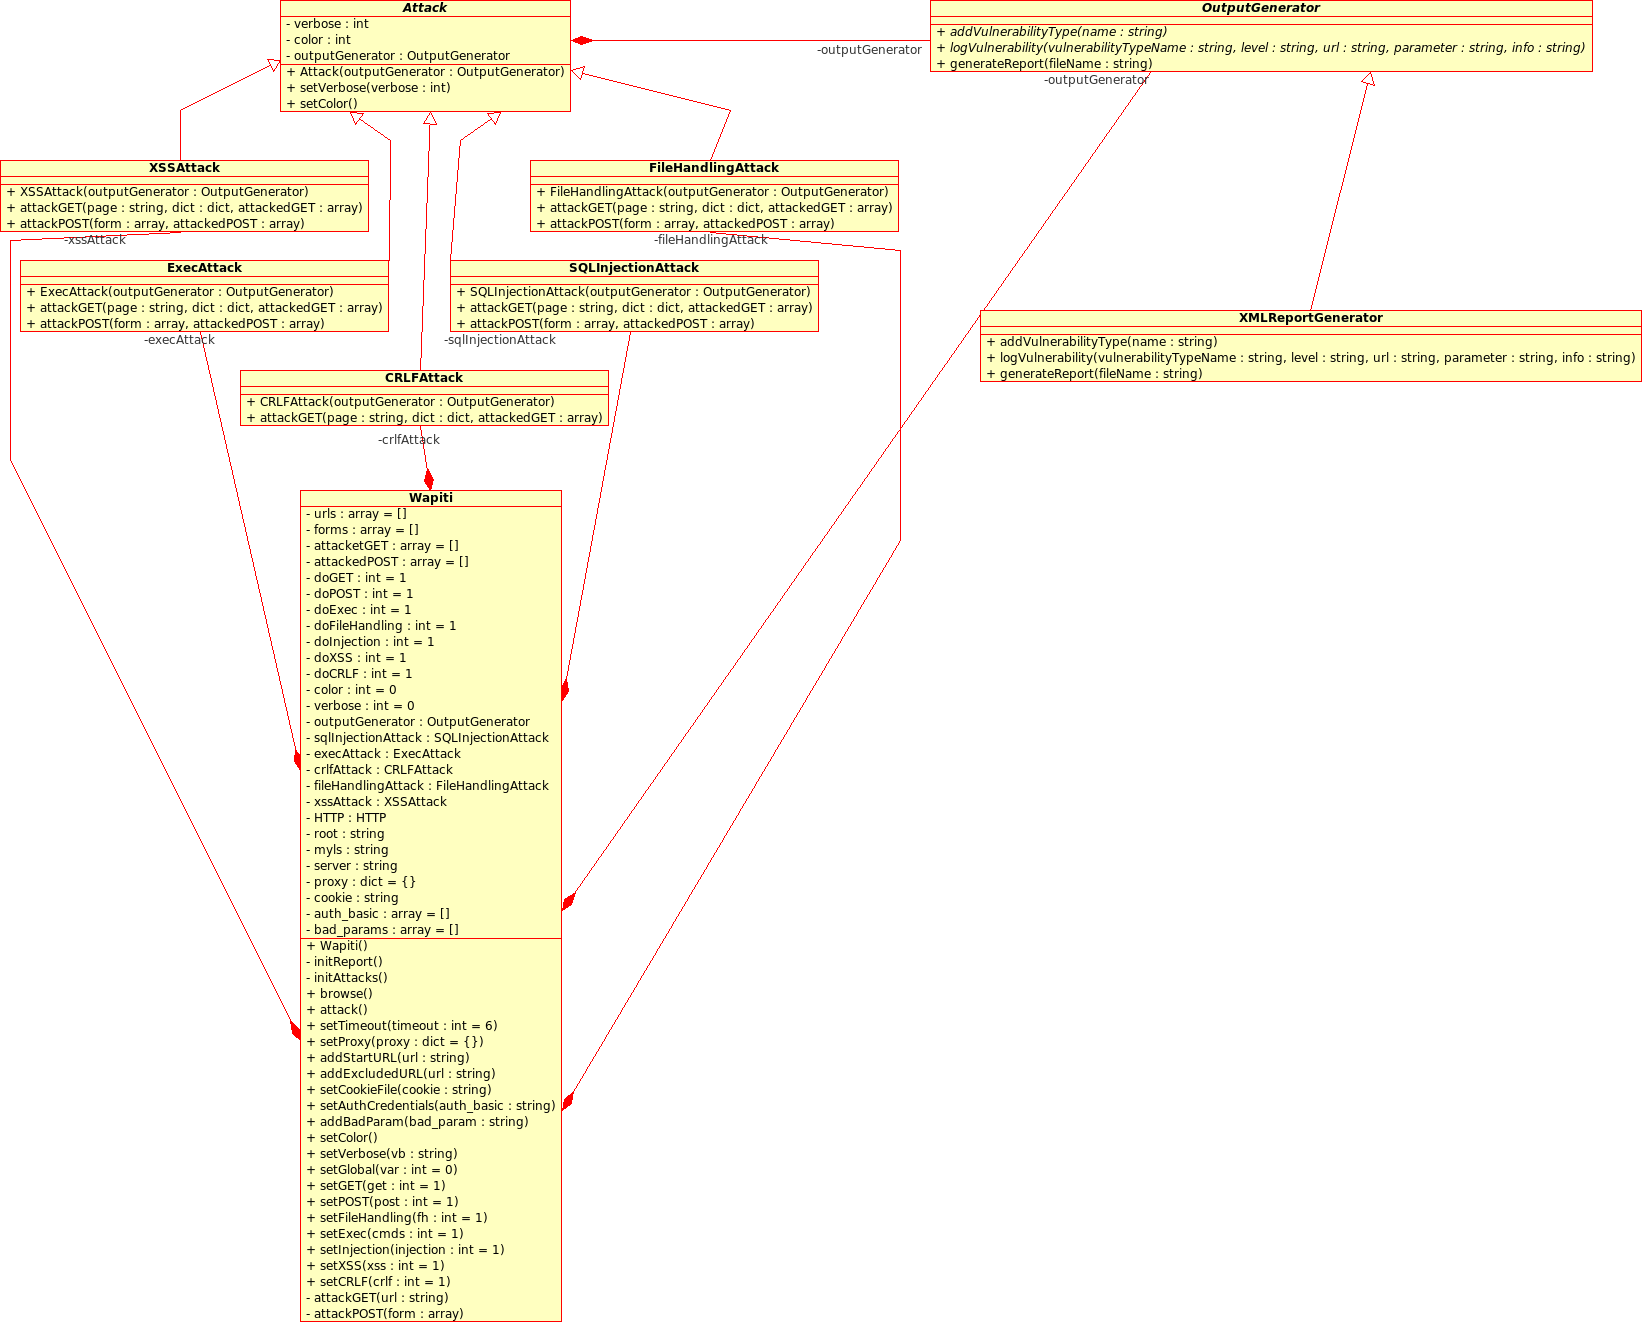
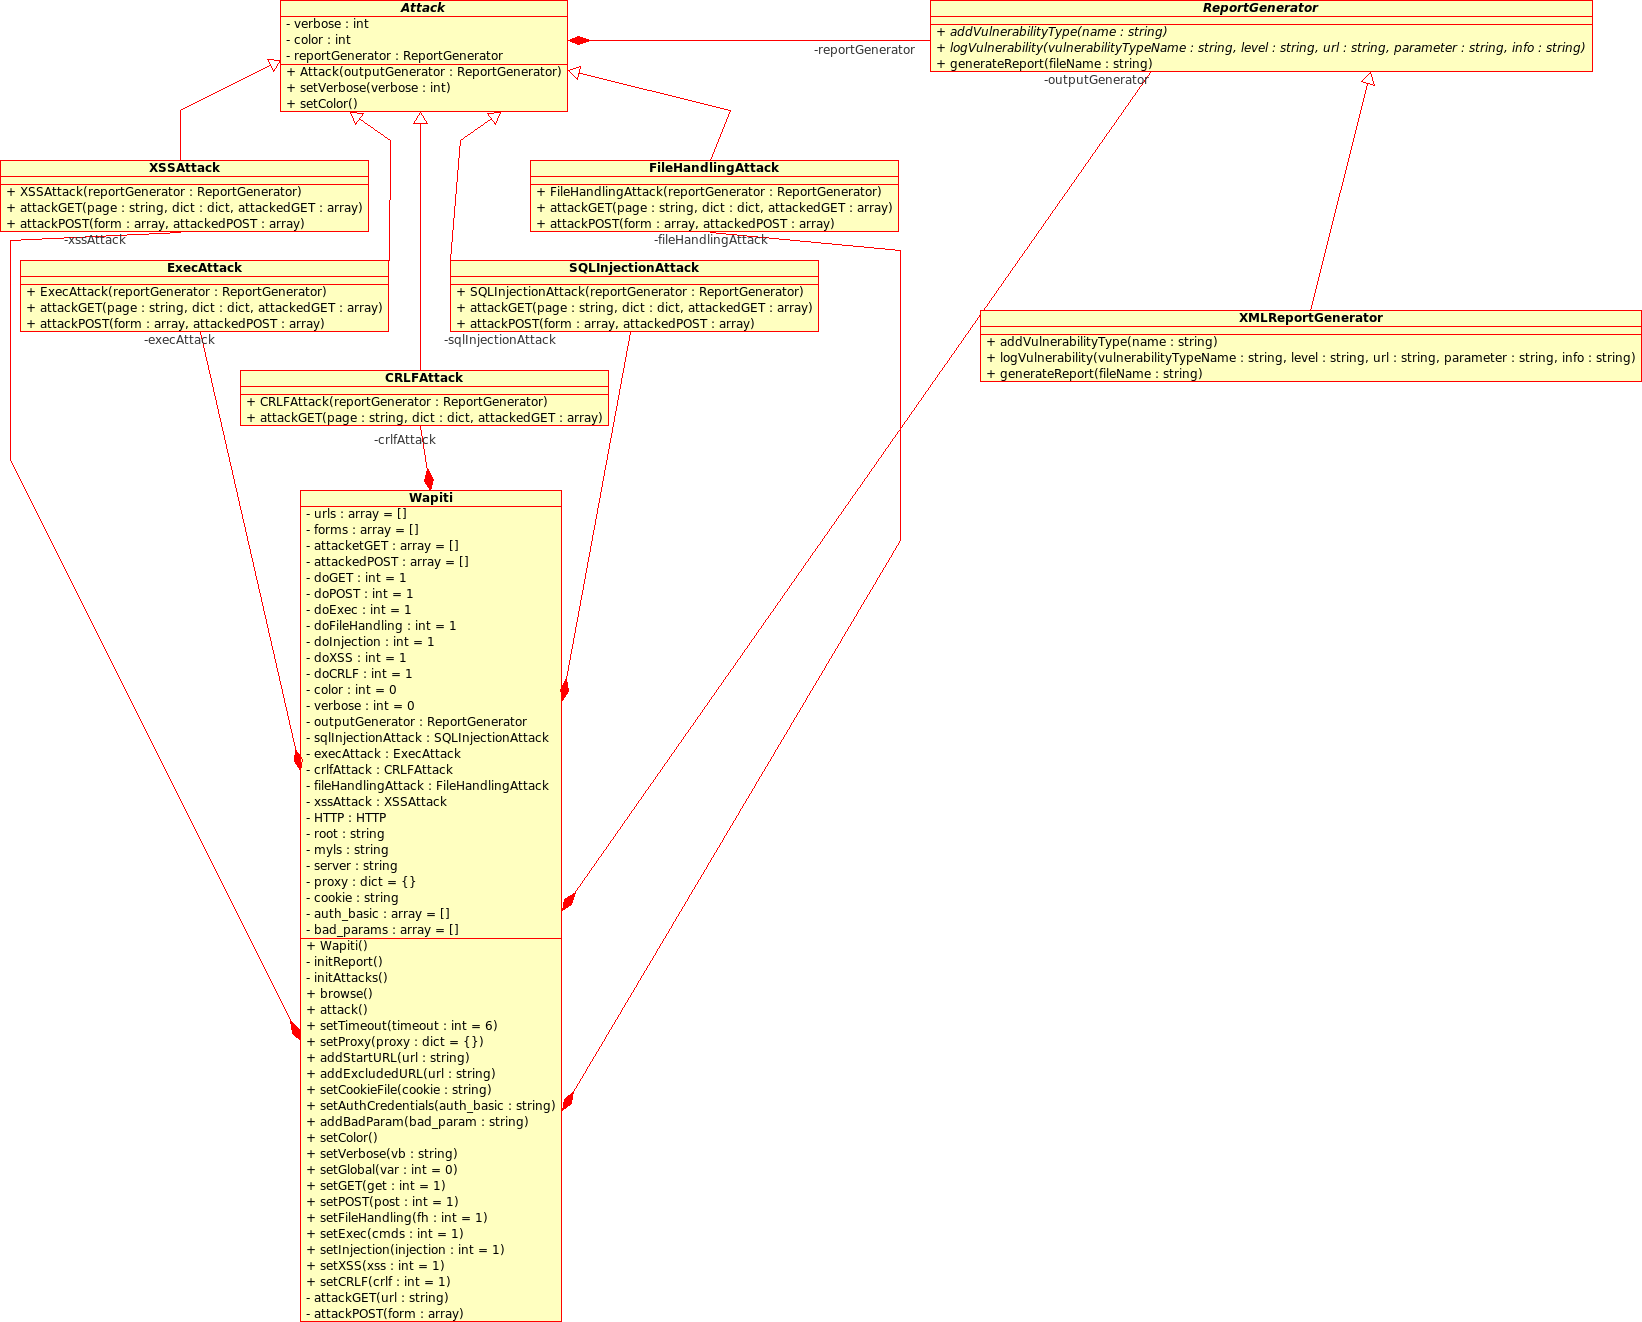
[Wapiti] XMLReportGenerator extends from ReportGenerator (abstract class) and in the main class (Wapiti) the report generator can be choosen dinamically. Now only xml format is supported. Application also gets the output file where the report will be generated but this function has not been implemen

diff --git a/wapiti.py b/wapiti.py
@@ -85,6 +85,11 @@ Supported options are:
 	Set the verbosity level
 	0: quiet (default), 1: print each url, 2: print every attack
 
+-rt <type>
+--reportType <type>
+	Set the type of the report
+	xml: Report in XML format
+
 -h
 --help
 	To print this usage message"""
@@ -102,6 +107,7 @@ Supported options are:
   color=0
   bad_params=[]
   verbose=0
+  reportGeneratorType = "xml"
 
   doGET=1
   doPOST=1
@@ -115,7 +121,7 @@ Supported options are:
   GET_XSS={}
   HTTP=None
   XSS=None
-  xmlReportGen = None
+  reporGen = None
 
   #Constants
   SQL_INJECTION = "Sql Injection"
@@ -139,12 +145,15 @@ Supported options are:
     self.__initReport()
 
   def __initReport(self):
-    self.xmlReportGen = XMLReportGenerator()
-    self.xmlReportGen.addVulnerabilityType(self.SQL_INJECTION)
-    self.xmlReportGen.addVulnerabilityType(self.FILE_HANDLING)
-    self.xmlReportGen.addVulnerabilityType(self.XSS)
-    self.xmlReportGen.addVulnerabilityType(self.CRLF)
-    self.xmlReportGen.addVulnerabilityType(self.EXEC)
+    if self.reportGeneratorType.lower() == "xml":
+        self.reporGen = XMLReportGenerator()
+    else: #default
+        self.reporGen = XMLReportGenerator()
+    self.reporGen.addVulnerabilityType(self.SQL_INJECTION)
+    self.reporGen.addVulnerabilityType(self.FILE_HANDLING)
+    self.reporGen.addVulnerabilityType(self.XSS)
+    self.reporGen.addVulnerabilityType(self.CRLF)
+    self.reporGen.addVulnerabilityType(self.EXEC)
 
   def browse(self):
     self.myls.go()
@@ -180,7 +189,7 @@ Supported options are:
       print "----------------------"
       for url in self.myls.getUploads():
         print url
-    self.xmlReportGen.printToFile(self.REPORT_DIR+"/vulnerabilities.xml")
+    self.reporGen.generateReport(self.REPORT_DIR+"/vulnerabilities.xml")
     print "\nReport"
     print "------"
     print "A report has been generated in the file vulnerabilities.xml"
@@ -250,6 +259,12 @@ Supported options are:
   def setCRLF(self,crlf=1):
     self.doCRLF=crlf
 
+  def setReportGeneratorType(self,repGentype="xml"):
+    self.reportGeneratorType = repGentype
+
+  def setOuputFile(self,outputFile):
+    self.outputFile = outputFile
+
   def attackGET(self,url):
     page=url.split('?')[0]
     query=url.split('?')[1]
@@ -309,14 +324,14 @@ Supported options are:
         if data.find("Sybase message:")>=0:
           err="Sybase Injection"
         if err!="":
-          self.xmlReportGen.logVulnerability(self.SQL_INJECTION,
+          self.reporGen.logVulnerability(self.SQL_INJECTION,
                             self.HIGH_LEVEL_VULNERABILITY,
                             url,payload,err+" (QUERY_STRING)")
           print err,"(QUERY_STRING) in",page
           print "\tEvil url:",url
         else:
           if code==500:
-            self.xmlReportGen.logVulnerability(self.SQL_INJECTION,
+            self.reporGen.logVulnerability(self.SQL_INJECTION,
                               self.HIGH_LEVEL_VULNERABILITY,
                               url,payload,"500 HTTP Error code")
             print "500 HTTP Error code with"
@@ -356,21 +371,21 @@ Supported options are:
             err="Sybase Injection"
           if err!="":
             if self.color==0:
-              self.xmlReportGen.logVulnerability(self.SQL_INJECTION,
+              self.reporGen.logVulnerability(self.SQL_INJECTION,
                                 self.HIGH_LEVEL_VULNERABILITY,
                                 url,self.HTTP.encode(tmp),
                                 err+" ("+k+")")
               print err,"("+k+") in",page
               print "\tEvil url:",url
             else:
-              self.xmlReportGen.logVulnerability(self.SQL_INJECTION,
+              self.reporGen.logVulnerability(self.SQL_INJECTION,
                                 self.HIGH_LEVEL_VULNERABILITY,
                                 url,self.HTTP.encode(tmp),
                                 err+" : "+url.replace(k+"=","\033[0;31m"+k+"\033[0;0m="))
               print err,":",url.replace(k+"=","\033[0;31m"+k+"\033[0;0m=")
           else:
             if code==500:
-              self.xmlReportGen.logVulnerability(self.SQL_INJECTION,
+              self.reporGen.logVulnerability(self.SQL_INJECTION,
                                 self.HIGH_LEVEL_VULNERABILITY,
                                 url,self.HTTP.encode(tmp),
                                 "500 HTTP Error code")
@@ -429,7 +444,7 @@ Supported options are:
             err="Warning file_get_contents()"
             warn=1
           if err!="":
-            self.xmlReportGen.logVulnerability(self.FILE_HANDLING,
+            self.reporGen.logVulnerability(self.FILE_HANDLING,
                               self.HIGH_LEVEL_VULNERABILITY,
                               url,self.HTTP.quote(payload),
                               str(err)+" (QUERY_STRING) in "+str(page))
@@ -438,7 +453,7 @@ Supported options are:
           else:
             if code==500 and err500==0:
               err500=1
-              self.xmlReportGen.logVulnerability(self.FILE_HANDLING,
+              self.reporGen.logVulnerability(self.FILE_HANDLING,
                                 self.HIGH_LEVEL_VULNERABILITY,
                                 url,self.HTTP.quote(payload),
                                 "500 HTTP Error code")
@@ -491,20 +506,20 @@ Supported options are:
             warn=1
           if err!="":
             if self.color==0:
-              self.xmlReportGen.logVulnerability(self.FILE_HANDLING,
+              self.reporGen.logVulnerability(self.FILE_HANDLING,
                                 self.HIGH_LEVEL_VULNERABILITY,
                                 url,self.HTTP.encode(tmp),err+" ("+k+")")
               print err,"("+k+") in",page
               print "\tEvil url:",url
             else:
-              self.xmlReportGen.logVulnerability(self.FILE_HANDLING,
+              self.reporGen.logVulnerability(self.FILE_HANDLING,
                                 self.HIGH_LEVEL_VULNERABILITY,url,self.HTTP.encode(tmp),
                                 err+" : "+url.replace(k+"=","\033[0;31m"+k+"\033[0;0m="))
               print err,":",url.replace(k+"=","\033[0;31m"+k+"\033[0;0m=")
           else:
             if code==500 and err500==0:
               err500=1
-              self.xmlReportGen.logVulnerability(self.FILE_HANDLING,
+              self.reporGen.logVulnerability(self.FILE_HANDLING,
                                 self.HIGH_LEVEL_VULNERABILITY,url,self.HTTP.encode(tmp),
                                 "500 HTTP Error code")
               print "500 HTTP Error code with"
@@ -555,14 +570,14 @@ Supported options are:
           print "+ "+url
         data,code=self.HTTP.send(url).getPageCode()
         if data.find(payload)>=0:
-          self.xmlReportGen.logVulnerability(self.XSS,
+          self.reporGen.logVulnerability(self.XSS,
                             self.HIGH_LEVEL_VULNERABILITY,
                             url,payload,"XSS (QUERY_STRING)")
           print "XSS (QUERY_STRING) in",page
           print "\tEvil url:",url
         else:
           if code==500:
-            self.xmlReportGen.logVulnerability(self.XSS,
+            self.reporGen.logVulnerability(self.XSS,
                               self.HIGH_LEVEL_VULNERABILITY,
                               url,payload,"500 HTTP Error code")
             print "500 HTTP Error code with"
@@ -585,21 +600,21 @@ Supported options are:
         data,code=self.HTTP.send(url).getPageCode()
         if data.find(payload)>=0:
           if self.color==0:
-            self.xmlReportGen.logVulnerability(self.XSS,
+            self.reporGen.logVulnerability(self.XSS,
                               self.HIGH_LEVEL_VULNERABILITY,
                               url,self.HTTP.uqe(tmp),
                               "XSS ("+k+")")
             print "XSS ("+k+") in",page
             print "\tEvil url:",url
           else:
-            self.xmlReportGen.logVulnerability(self.XSS,
+            self.reporGen.logVulnerability(self.XSS,
                               self.HIGH_LEVEL_VULNERABILITY,
                               url,self.HTTP.uqe(tmp),
                               "XSS: "+url.replace(k+"=","\033[0;31m"+k+"\033[0;0m="))
             print "XSS",":",url.replace(k+"=","\033[0;31m"+k+"\033[0;0m=")
         else:
           if code==500:
-            self.xmlReportGen.logVulnerability(self.XSS,
+            self.reporGen.logVulnerability(self.XSS,
                               self.HIGH_LEVEL_VULNERABILITY,
                               url,self.HTTP.uqe(tmp),
                               "500 HTTP Error code")
@@ -637,14 +652,14 @@ Supported options are:
             err="preg_replace injection"
             warn=1
           if err!="":
-            self.xmlReportGen.logVulnerability(self.EXEC,self.HIGH_LEVEL_VULNERABILITY,
+            self.reporGen.logVulnerability(self.EXEC,self.HIGH_LEVEL_VULNERABILITY,
                               url,self.HTTP.quote(payload),err+" (QUERY_STRING)")
             print err,"(QUERY_STRING) in",page
             print "\tEvil url:",url
           else:
             if code==500 and err500==0:
               err500=1
-              self.xmlReportGen.logVulnerability(self.EXEC,self.HIGH_LEVEL_VULNERABILITY,
+              self.reporGen.logVulnerability(self.EXEC,self.HIGH_LEVEL_VULNERABILITY,
                                 url,self.HTTP.quote(payload),"500 HTTP Error code")
               print "500 HTTP Error code with"
               print "\tEvil url:",url
@@ -677,19 +692,19 @@ Supported options are:
             warn=1
           if err!="":
             if self.color==0:
-              self.xmlReportGen.logVulnerability(self.EXEC,self.HIGH_LEVEL_VULNERABILITY,
+              self.reporGen.logVulnerability(self.EXEC,self.HIGH_LEVEL_VULNERABILITY,
                                 url,self.HTTP.encode(tmp),err+" ("+k+")")
               print err,"("+k+") in",page
               print "\tEvil url:",url
             else:
-              self.xmlReportGen.logVulnerability(self.EXEC,self.HIGH_LEVEL_VULNERABILITY,
+              self.reporGen.logVulnerability(self.EXEC,self.HIGH_LEVEL_VULNERABILITY,
                                 url,self.HTTP.encode(tmp),
                                 err+" : "+url.replace(k+"=","\033[0;31m"+k+"\033[0;0m="))
               print err,":",url.replace(k+"=","\033[0;31m"+k+"\033[0;0m=")
           else:
             if code==500 and err500==0:
               err500=1
-              self.xmlReportGen.logVulnerability(self.EXEC,self.HIGH_LEVEL_VULNERABILITY,
+              self.reporGen.logVulnerability(self.EXEC,self.HIGH_LEVEL_VULNERABILITY,
                                 url,self.HTTP.encode(tmp),
                                 "500 HTTP Error code")
               print "500 HTTP Error code with"
@@ -705,7 +720,7 @@ Supported options are:
         if self.verbose==2:
           print "+ "+url
         if self.HTTP.send(url).getInfo().has_key('Wapiti'):
-          self.xmlReportGen.logVulnerability(self.CRLF,self.HIGH_LEVEL_VULNERABILITY,
+          self.reporGen.logVulnerability(self.CRLF,self.HIGH_LEVEL_VULNERABILITY,
                             page,payload,err+" (QUERY_STRING)")
           print "CRLF Injection (QUERY_STRING) in",page
           print "\tEvil url:",url
@@ -722,12 +737,12 @@ Supported options are:
           if self.HTTP.send(url).getInfo().has_key('Wapiti'):
             err="CRLF Injection"
             if self.color==0:
-              self.xmlReportGen.logVulnerability(self.CRLF,self.HIGH_LEVEL_VULNERABILITY,
+              self.reporGen.logVulnerability(self.CRLF,self.HIGH_LEVEL_VULNERABILITY,
                                 page,self.HTTP.encode(tmp),err+" ("+k+")")
               print err,"("+k+") in",page
               print "\tEvil url:",url
             else:
-              self.xmlReportGen.logVulnerability(self.CRLF,self.HIGH_LEVEL_VULNERABILITY,
+              self.reporGen.logVulnerability(self.CRLF,self.HIGH_LEVEL_VULNERABILITY,
                                 page,self.HTTP.encode(tmp).
                                 err+" : "+url.replace(k+"=","\033[0;31m"+k+"\033[0;0m="))
               print err,":",url.replace(k+"=","\033[0;31m"+k+"\033[0;0m=")
@@ -770,7 +785,7 @@ Supported options are:
         if data.find("Sybase message:")>=0:
           err="Sybase Injection"
         if err!="":
-          self.xmlReportGen.logVulnerability(self.SQL_INJECTION,
+          self.reporGen.logVulnerability(self.SQL_INJECTION,
                             self.HIGH_LEVEL_VULNERABILITY,
                             page,self.HTTP.encode(tmp),
                             err+" coming from "+form[2])
@@ -779,7 +794,7 @@ Supported options are:
           print "  coming from",form[2]
         else:
           if code==500:
-            self.xmlReportGen.logVulnerability(self.SQL_INJECTION,
+            self.reporGen.logVulnerability(self.SQL_INJECTION,
                               self.HIGH_LEVEL_VULNERABILITY,
                               page,self.HTTP.encode(tmp),
                               "500 HTTP Error coming from "+form[2])
@@ -844,7 +859,7 @@ Supported options are:
             err="Warning file_get_contents()"
             warn=1
           if err!="":
-            self.xmlReportGen.logVulnerability(self.FILE_HANDLING,
+            self.reporGen.logVulnerability(self.FILE_HANDLING,
                               self.HIGH_LEVEL_VULNERABILITY,
                               page,self.HTTP.encode(tmp),
                               err+" coming from "+form[2])
@@ -854,7 +869,7 @@ Supported options are:
           else:
             if code==500 and err500==0:
               err500=1
-              self.xmlReportGen.logVulnerability(self.FILE_HANDLING,
+              self.reporGen.logVulnerability(self.FILE_HANDLING,
                                 self.HIGH_LEVEL_VULNERABILITY,
                                 page,self.HTTP.encode(tmp),
                                 "500 HTTP Error coming from "+form[2])
@@ -919,7 +934,7 @@ Supported options are:
             err="preg_replace injection"
             warn=1
           if err!="":
-            self.xmlReportGen.logVulnerability(self.XSS,self.HIGH_LEVEL_VULNERABILITY,
+            self.reporGen.logVulnerability(self.XSS,self.HIGH_LEVEL_VULNERABILITY,
                               page,self.HTTP.encode(tmp),
                               err+" coming from "+form[2])
             print err,"in",page
@@ -928,7 +943,7 @@ Supported options are:
           else:
             if code==500 and err500==0:
               err500=1
-              self.xmlReportGen.logVulnerability(self.XSS,self.HIGH_LEVEL_VULNERABILITY,
+              self.reporGen.logVulnerability(self.XSS,self.HIGH_LEVEL_VULNERABILITY,
                                 page,self.HTTP.encode(tmp),
                                 "500 HTTP Error code coming from "+form[2])
               print "500 HTTP Error code in",page
@@ -941,7 +956,7 @@ Supported options are:
       if data.find(code):
         if self.XSS.validXSS(data,code):
           print "Found permanent XSS with ",self.GET_XSS[code].replace(code,"<XSS>")
-          self.xmlReportGen.logVulnerability(self.XSS,
+          self.reporGen.logVulnerability(self.XSS,
                             self.HIGH_LEVEL_VULNERABILITY,url,"",
                             "Found permanent XSS with "+self.GET_XSS[code].replace(code,"<XSS>"))
     # TODO
@@ -949,7 +964,7 @@ Supported options are:
     for s in p.findall(data):
       s=s.split(";")[0].split('XSS')[1].replace("_","-")
       if self.xss_history.has_key(int(s)):
-        self.xmlReportGen.logVulnerability(self.XSS,
+        self.reporGen.logVulnerability(self.XSS,
                           self.HIGH_LEVEL_VULNERABILITY,url,"",
                           "Found permanent XSS attacked by "+self.xss_history[int(s)][0]+
                           " with field "+self.xss_history[int(s)][1])
@@ -1022,6 +1037,10 @@ if __name__ == "__main__":
           wap.setGlobal()
           wap.setGET()
           wap.setFileHandling()
+      if o in ("-o","--outputFile"):
+        wap.setOutputFile(a)
+      if o in ("-rt","--reportType"):
+        wap.setReportType(a)
     print "Wapiti-1.1.8-alpha (wapiti.sourceforge.net)"
     print "THIS IS AN ALPHA VERSION - PLEASE REPORT BUGS"
     wap.browse()

diff --git a/reportgenerator.py b/reportgenerator.py
@@ -1,0 +1,33 @@
+#!/usr/bin/env python
+
+# XML Report Generator Module for Wapiti Project
+# Wapiti Project (http://wapiti.sourceforge.net)
+#
+# David del Pozo
+# Alberto Pastor
+# Copyright (C) 2008 Informatica Gesfor
+# ICT Romulus (http://www.ict-romulus.eu)
+#
+# This program is free software; you can redistribute it and/or modify
+# it under the terms of the GNU General Public License as published by
+# the Free Software Foundation; either version 2 of the License, or
+# (at your option) any later version.
+#
+# This program is distributed in the hope that it will be useful,
+# but WITHOUT ANY WARRANTY; without even the implied warranty of
+# MERCHANTABILITY or FITNESS FOR A PARTICULAR PURPOSE.  See the
+# GNU General Public License for more details.
+#
+# You should have received a copy of the GNU General Public License
+# along with this program; if not, write to the Free Software
+# Foundation, Inc., 51 Franklin St, Fifth Floor, Boston, MA  02110-1301  USA
+
+class ReportGenerator:
+    def addVulnerabilityType(self,name):
+        ""
+
+    def logVulnerability(self,vulnerabilityTypeName,level,url,parameter,info):
+        ""
+
+    def generateReport(self,fileName):
+        ""

diff --git a/xmlreportgenerator.py b/xmlreportgenerator.py
@@ -23,8 +23,9 @@
 # Foundation, Inc., 51 Franklin St, Fifth Floor, Boston, MA  02110-1301  USA
 
 from xml.dom.minidom import Document
+from reportgenerator import ReportGenerator
 
-class XMLReportGenerator:
+class XMLReportGenerator(ReportGenerator):
     """
     This class generates a report with the method printToFile(fileName) which contains
     the information of all the vulnerabilities notified to this object through the 
@@ -106,7 +107,7 @@ class XMLReportGenerator:
         vulnerability.appendChild(infoNode)
         self.__addToVulnerabilityList(vulnerabilityTypeName,vulnerability)
 
-    def printToFile(self,fileName):
+    def generateReport(self,fileName):
         """
         Create a xml file with a report of the vulnerabilities which have been logged with 
         the method logVulnerability(vulnerabilityTypeName,level,url,parameter,info)
